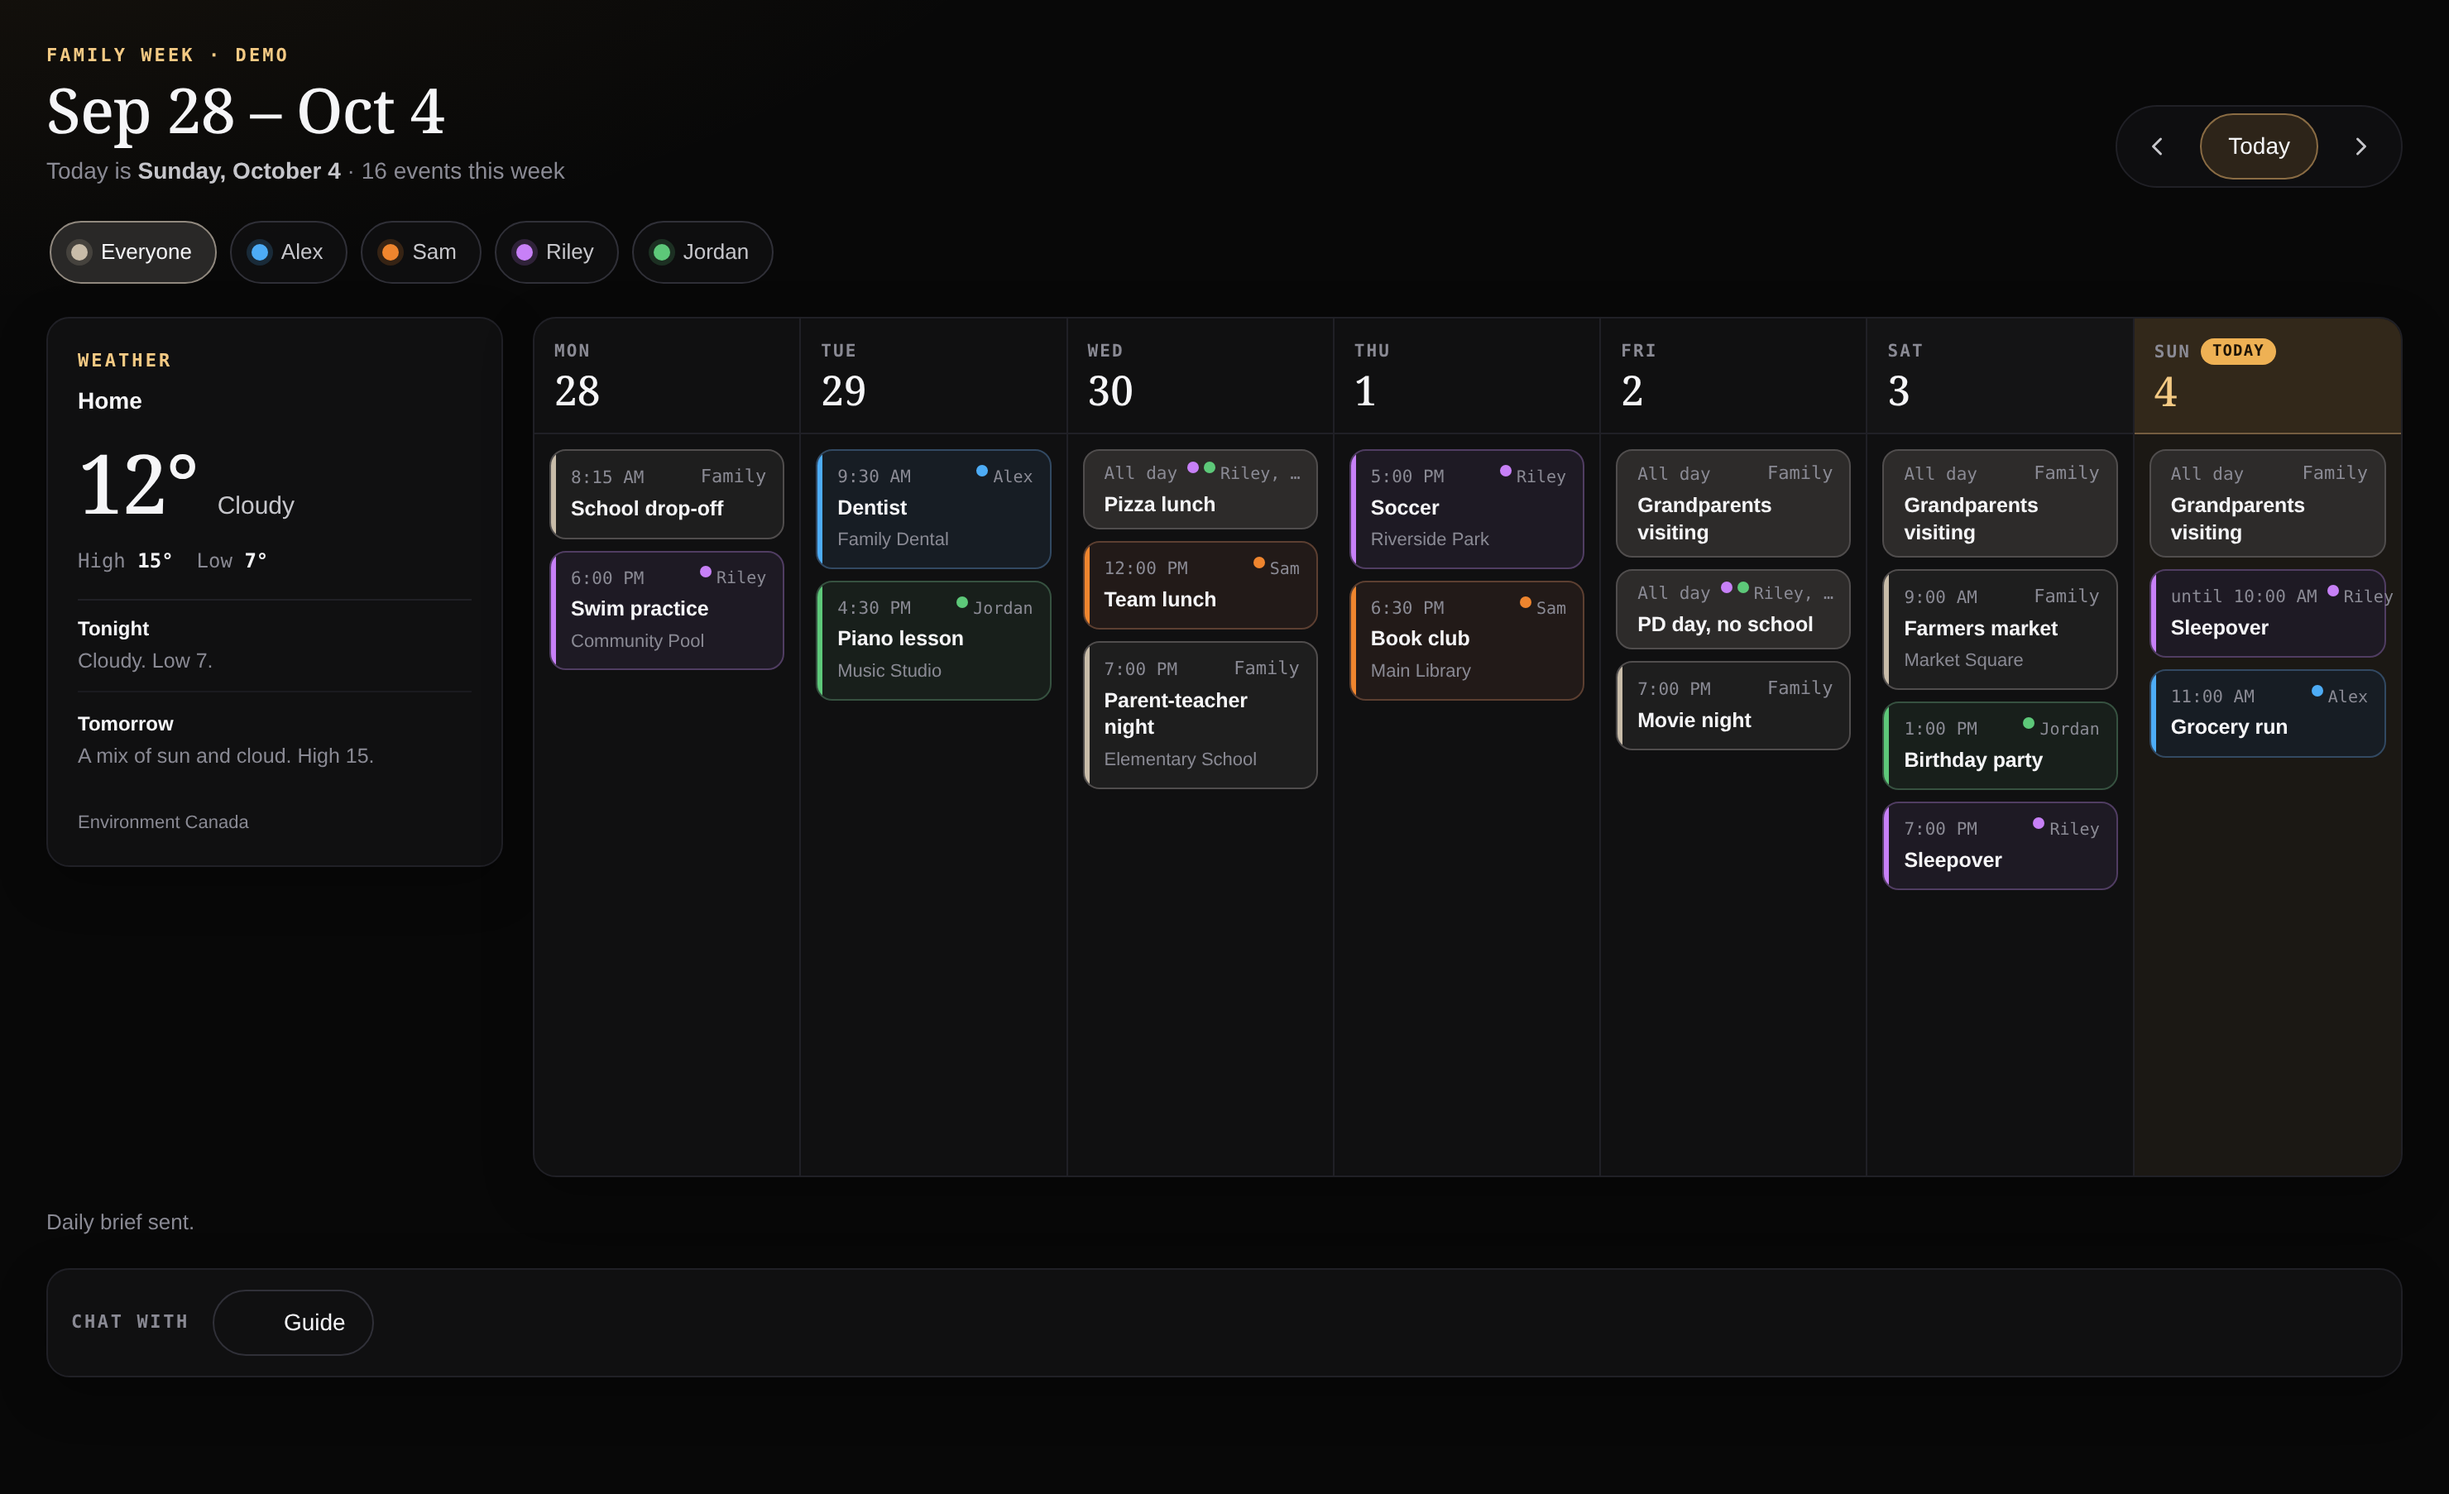
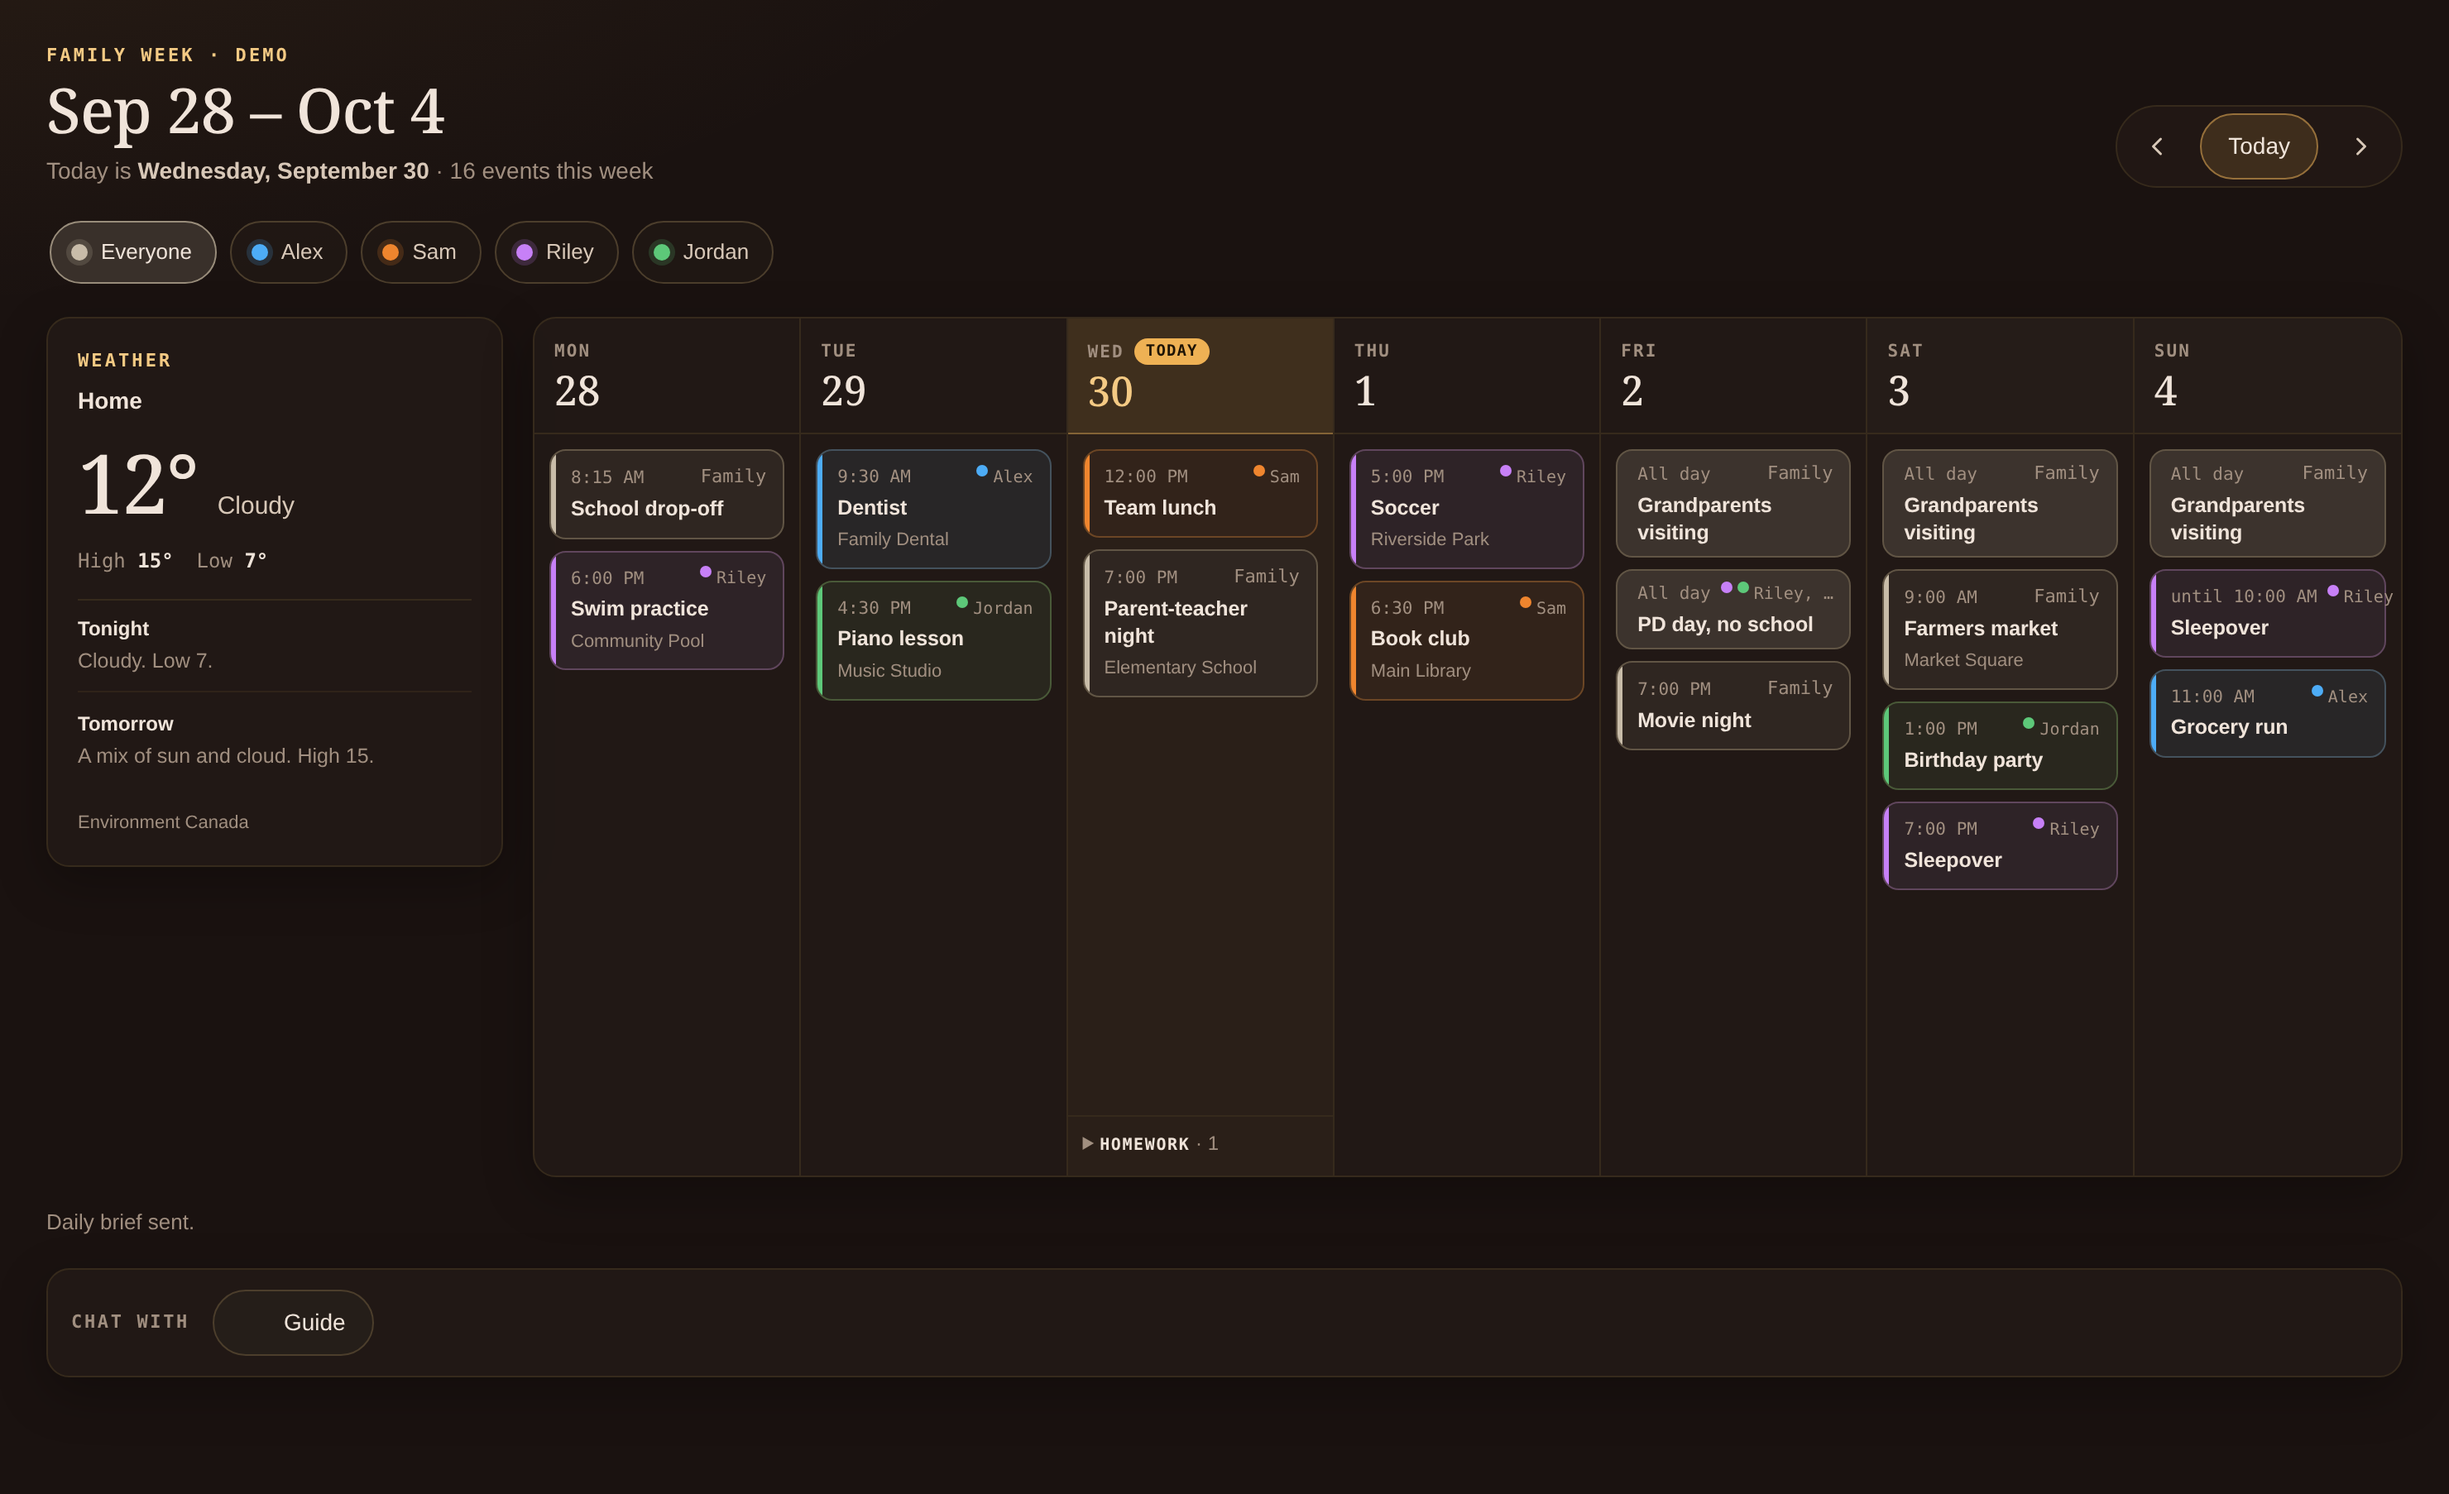
docs: describe the person filter and signed-in profile
The week pictures are the current demo. Everyone is the dark picture.
Riley's chip is selected in the light picture and on the phone.
README and FAQ say a chip filters the view, and a signed-in kid sees
classes on school calendars they own because profileId matches.

diff --git a/README.md b/README.md
@@ -40,18 +40,20 @@ It is built for the questions a household actually asks:
 
 Daily and weekly briefs stay short. Routine items fold into a single line so the unusual things stand out.
 
-The pictures below are the demo week (Alex, Sam, Riley, and Jordan). Demo mode does not read a real calendar.
+The pictures below are the demo week (Alex, Sam, Riley, and Jordan). Demo mode does not read a real calendar. The dark picture is Everyone, the parent view. The light picture and the phone have Riley's chip selected, so other people's events leave the week. Riley's events stay, and so do family events and Riley's school items. The chip filters that view. It is not who is signed in.
+
+A signed-in kid already sees their own classes without pressing a chip. The Gateway matches their sign-in to `profileId`, and `family.week` names that kid as the viewer. A parent on Everyone does not see those classes until they pick that child. The demo week has no class times, so these pictures do not show a class list.
 
 <p align="center">
-  <img src="docs/readme/family-dark.png" alt="Family week in dark mode. Monday through Sunday, weather for Home, and a color for each person." width="920">
+  <img src="docs/readme/family-dark.png" alt="Family week in dark mode, Everyone selected. Wednesday, September 30 is today. Weather for Home, and a color for each person." width="920">
 </p>
 
 <p align="center">
-  <img src="docs/readme/family-light.png" alt="The same Family week in light mode." width="920">
+  <img src="docs/readme/family-light.png" alt="The same Family week in light mode, with Riley's chip selected." width="920">
 </p>
 
 <p align="center">
-  <img src="docs/readme/family-phone.png" alt="The Family page on a phone, with Sunday selected." width="280">
+  <img src="docs/readme/family-phone.png" alt="The Family page on a phone, with Riley selected and Wednesday showing." width="280">
   <img src="docs/readme/today.png" alt="The Today widget: Grocery run in 60 min." width="340">
 </p>
 
@@ -59,7 +61,7 @@ The pictures below are the demo week (Alex, Sam, Riley, and Jordan). Demo mode d
 
 | Feature | What you get | Status |
 | --- | --- | --- |
-| Family page | Monday–Sunday week, a color per person, person chips that filter the week, Environment Canada weather, and a chat strip | Available |
+| Family page | Monday–Sunday week, a color per person, person chips that filter the week and include that person's classes, Environment Canada weather, and a chat strip | Available |
 | Today widget | Up to three highlight lines on the Control UI dashboard for the shared owner and roster parents. A fresh Home gets the card once. If you remove it, the Family page offers to pin it again | Available |
 | Calendar changes | One write path from the page and from chat. A parent approves anything a kid cannot change alone. No undo | Available |
 | Daily and weekly briefs | 07:00 daily and Sunday 20:00 weekly, posted to the Discord summary channel you configure | Available |
@@ -167,6 +169,8 @@ A calendar `key` is optional. Set one (`c` plus up to seven letters or digits) b
 
 The week runs Monday through Sunday, in the household time zone. Each person has a color. The person chips filter the week in the view. They do not decide who you are, and they do not hide a calendar you are allowed to see.
 
+A school notice stays on the day. A uniform note stays on the day too, names the child, and stays visible on a phone. Homework is collapsed under the day. Classes stay off Everyone until that person is selected. A signed-in kid already sees classes on school calendars they own: the page uses the viewer from `family.week`, and that viewer is the roster person whose `profileId` matches the Gateway sign-in. A parent on Everyone does not see those classes until they pick that child. Pressing a chip filters the view. It does not change which calendars the Gateway sends.
+
 The weather card shows current conditions, today's high and low, and the next forecast periods. It only works in Canada. Elsewhere the card says so.
 
 The chat strip is labeled "Chat with". It opens any agent that signed-in person can already open. It does not grant a new agent.
@@ -249,7 +253,7 @@ Everything runs on your own OpenClaw Gateway. `gog` runs locally. This plugin st
 
 A weather request sends a search box around the coordinates in your config to Environment Canada. It does not send a street address. If you set `garbageIcsUrl`, the plugin fetches that collection calendar. Those are the outside reads. Briefs and reminders go out through the Discord bot OpenClaw already runs.
 
-The Gateway decides who sees which calendar before the week is sent to the page. Parents see every calendar. So does the shared-token owner, except in LAN mode, where a paired device token is a guest. Everyone sees shared calendars. A school or personal calendar also goes to its owners when that person is a member, not a guest. Guests, and anyone signed in who is not on the roster, see shared calendars only. The chips only dim events.
+The Gateway decides who sees which calendar before the week is sent to the page. Parents see every calendar. So does the shared-token owner, except in LAN mode, where a paired device token is a guest. Everyone sees shared calendars. A school or personal calendar also goes to its owners when that person is a member, not a guest. Guests, and anyone signed in who is not on the roster, see shared calendars only. The chips filter the week in the view. They are not a privacy control.
 
 Calendar write tool descriptions list the configured calendar labels so the agent knows where it can write. That metadata can name a calendar the person cannot read, though no event or contact detail from it is returned. If the labels themselves are sensitive, give each person their own agent instead of sharing one.
 

diff --git a/FAQ.md b/FAQ.md
@@ -108,8 +108,9 @@ calendars. A school or personal calendar also goes to its owners when that
 person is a member and not a guest. Guests, and people who are not on the
 roster, see shared calendars only.
 
-The member chips dim events. They are not a privacy control. A calendar that
-even parents should not see does not belong in the config.
+The member chips filter the week in the view. They are not a privacy control. A calendar that
+even parents should not see does not belong in the config. A kid who is signed in sees
+classes on school calendars they own. Pressing a chip does not grant that.
 
 The Chat with strip uses that person's own agent list, so it only shows agents
 they can already open.
@@ -164,7 +165,7 @@ Authelia.
 
 A member is the household's record of a person, in `plugins.entries.oc-family-pack.config.members`. Only `name` is required. `id` is the household person id: an explicit `id`, otherwise the login, otherwise a lower-case slug of the name. Write the id down with `openclaw family setup --materialize-ids` before renaming someone or changing their login. `role` is `parent`, `kid`, or `guest`, and defaults to guest. Optional fields are `profileId` (or `login`), `gatewayProfileId`, `aliases`, `email`, `phone`, `color`, `discordId`, `reminders` (`dm`, `channel`, or `off`), and `devices`. `displayName` is the older spelling of `name` and still loads.
 
-`profileId` and `login` are the sign-in username, lower case, matched exactly to the trusted-proxy user. They are not the Gateway's internal profile id, and the login is never made up from the name. `gatewayProfileId` is that internal id, matched only when the host attests it on the connection. Someone with no login is not that person on the Family page unless a host-attested profile id matches; they still count in chat when their `discordId` matches. Setup's Members step stays To do until there is a parent. The chips on the Family page only dim events. They do not add a person, and they are not identity. The fields and the steps are in [SETUP.md](SETUP.md).
+`profileId` and `login` are the sign-in username, lower case, matched exactly to the trusted-proxy user. They are not the Gateway's internal profile id, and the login is never made up from the name. `gatewayProfileId` is that internal id, matched only when the host attests it on the connection. Someone with no login is not that person on the Family page unless a host-attested profile id matches; they still count in chat when their `discordId` matches. Setup's Members step stays To do until there is a parent. The chips on the Family page filter the week in the view. They do not add a person, and they are not identity. A kid sees their own classes because sign-in matches `profileId`. The fields and the steps are in [SETUP.md](SETUP.md).
 
 ## How do I add someone?
 
